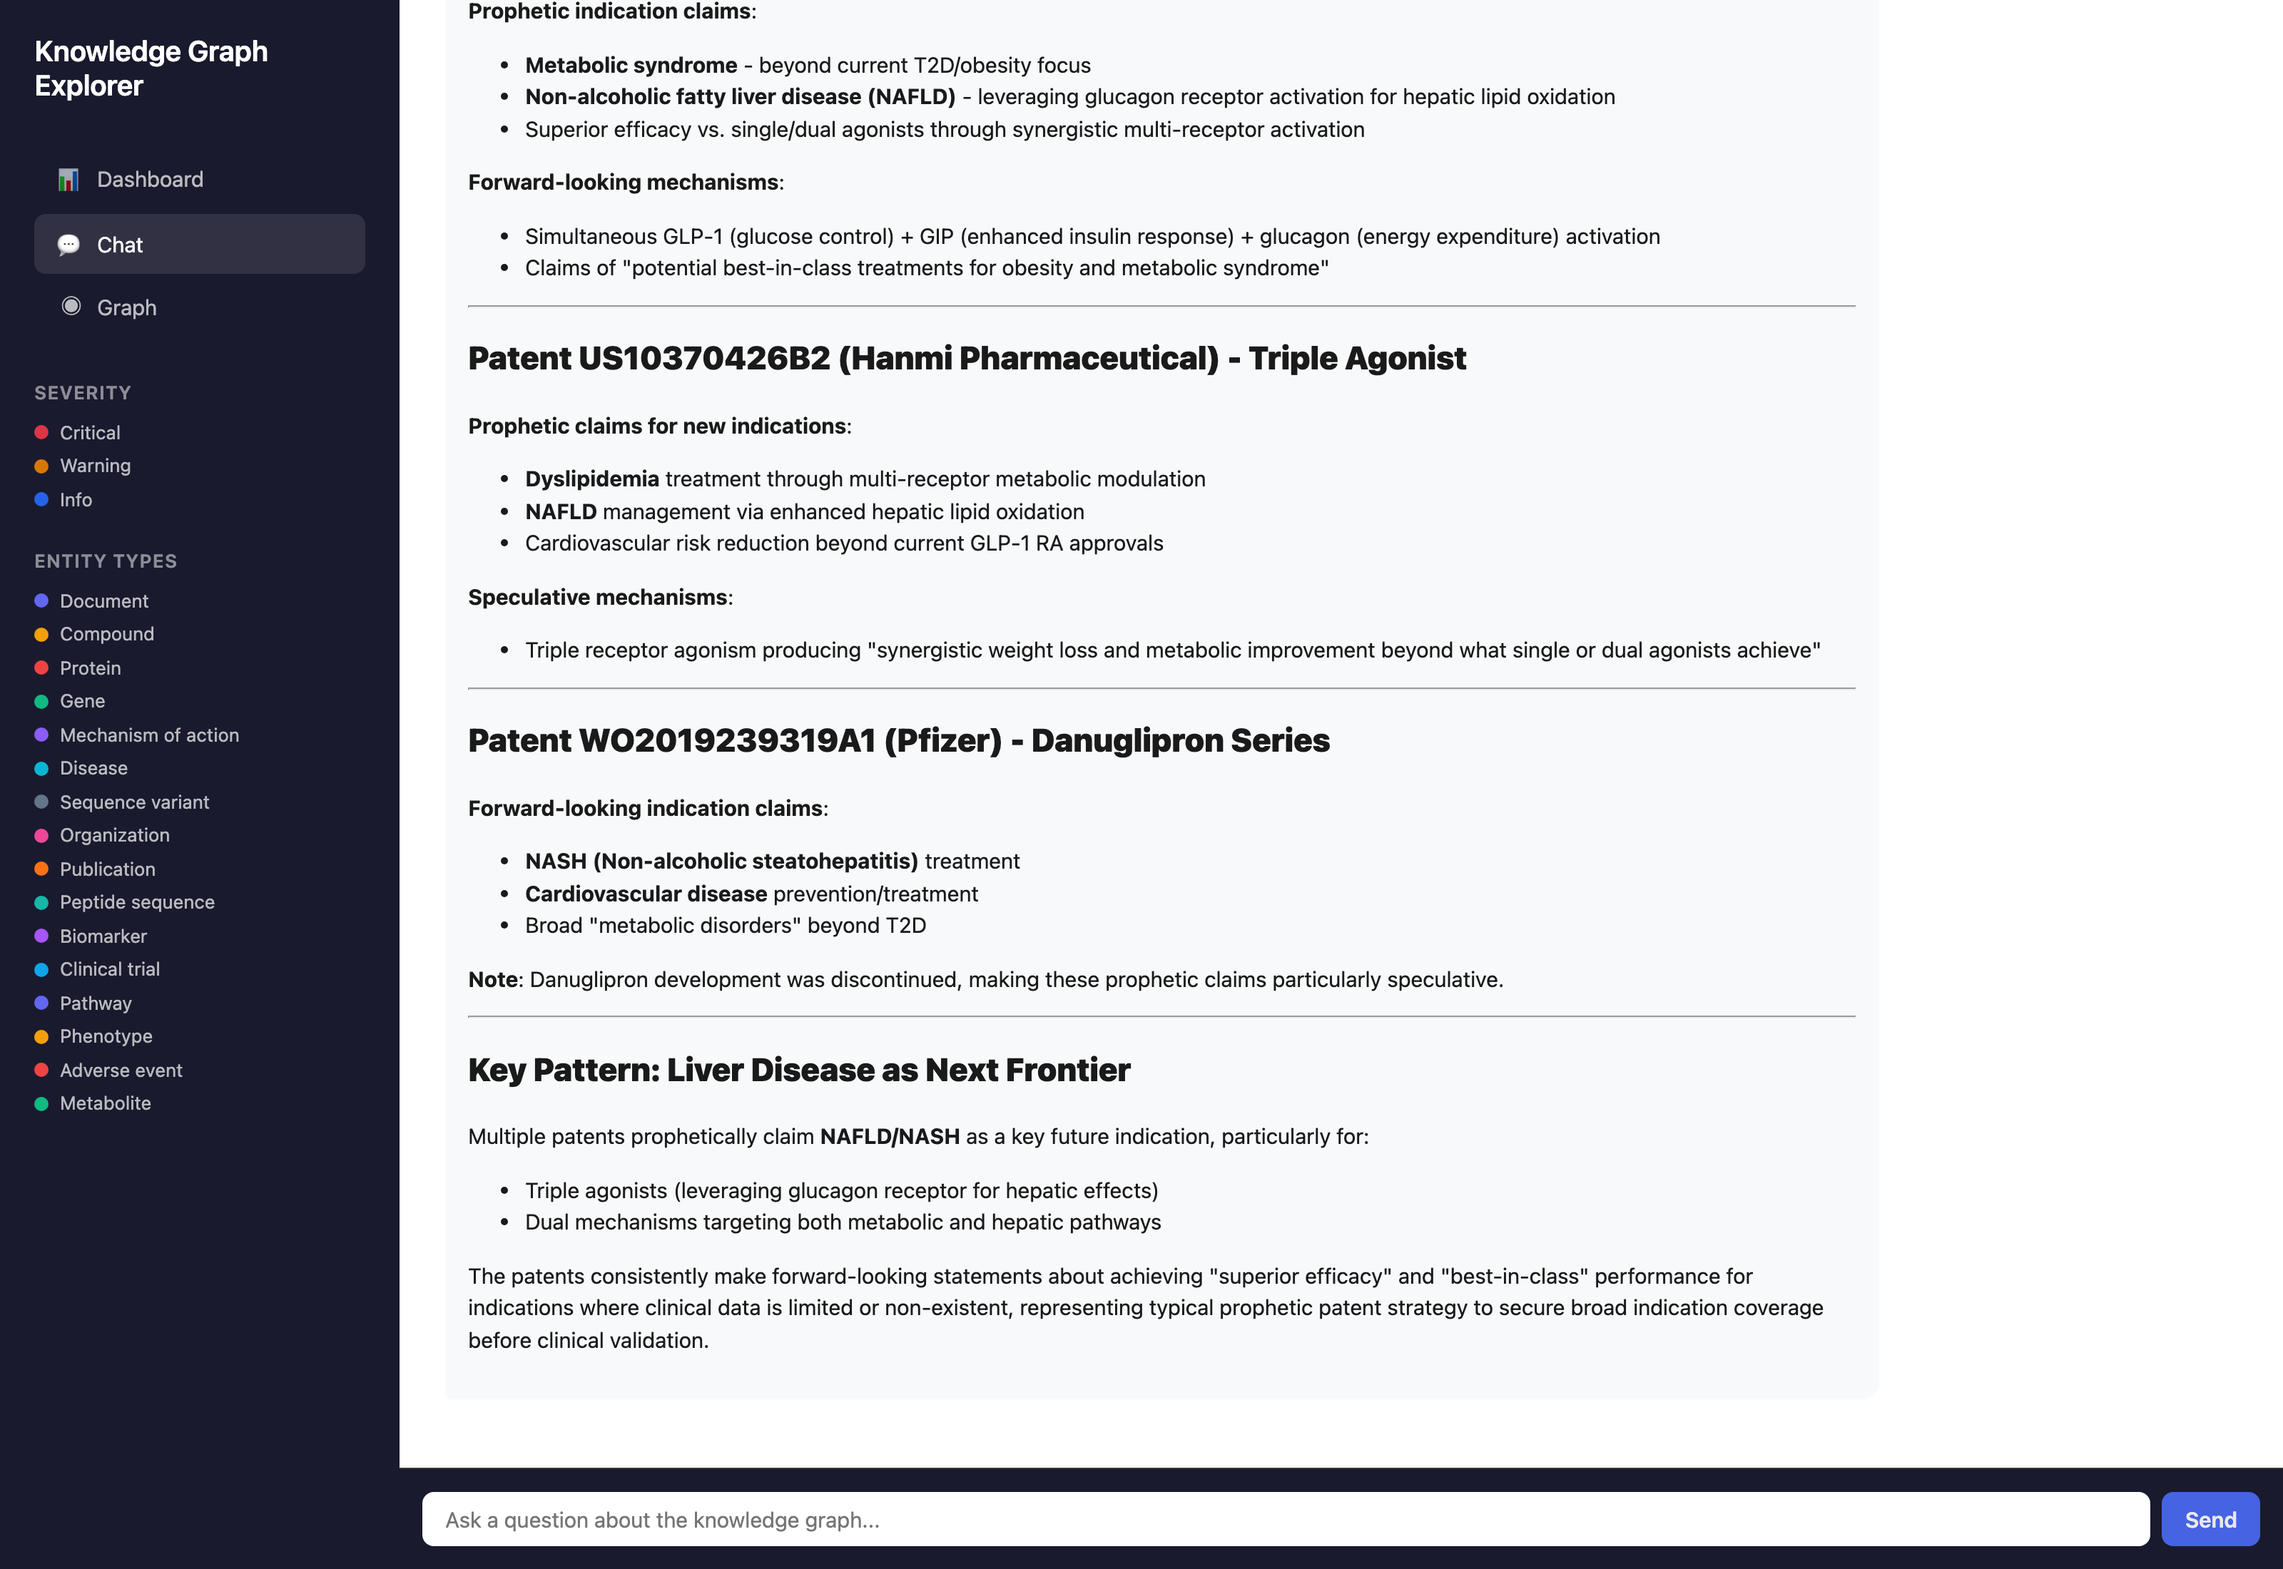
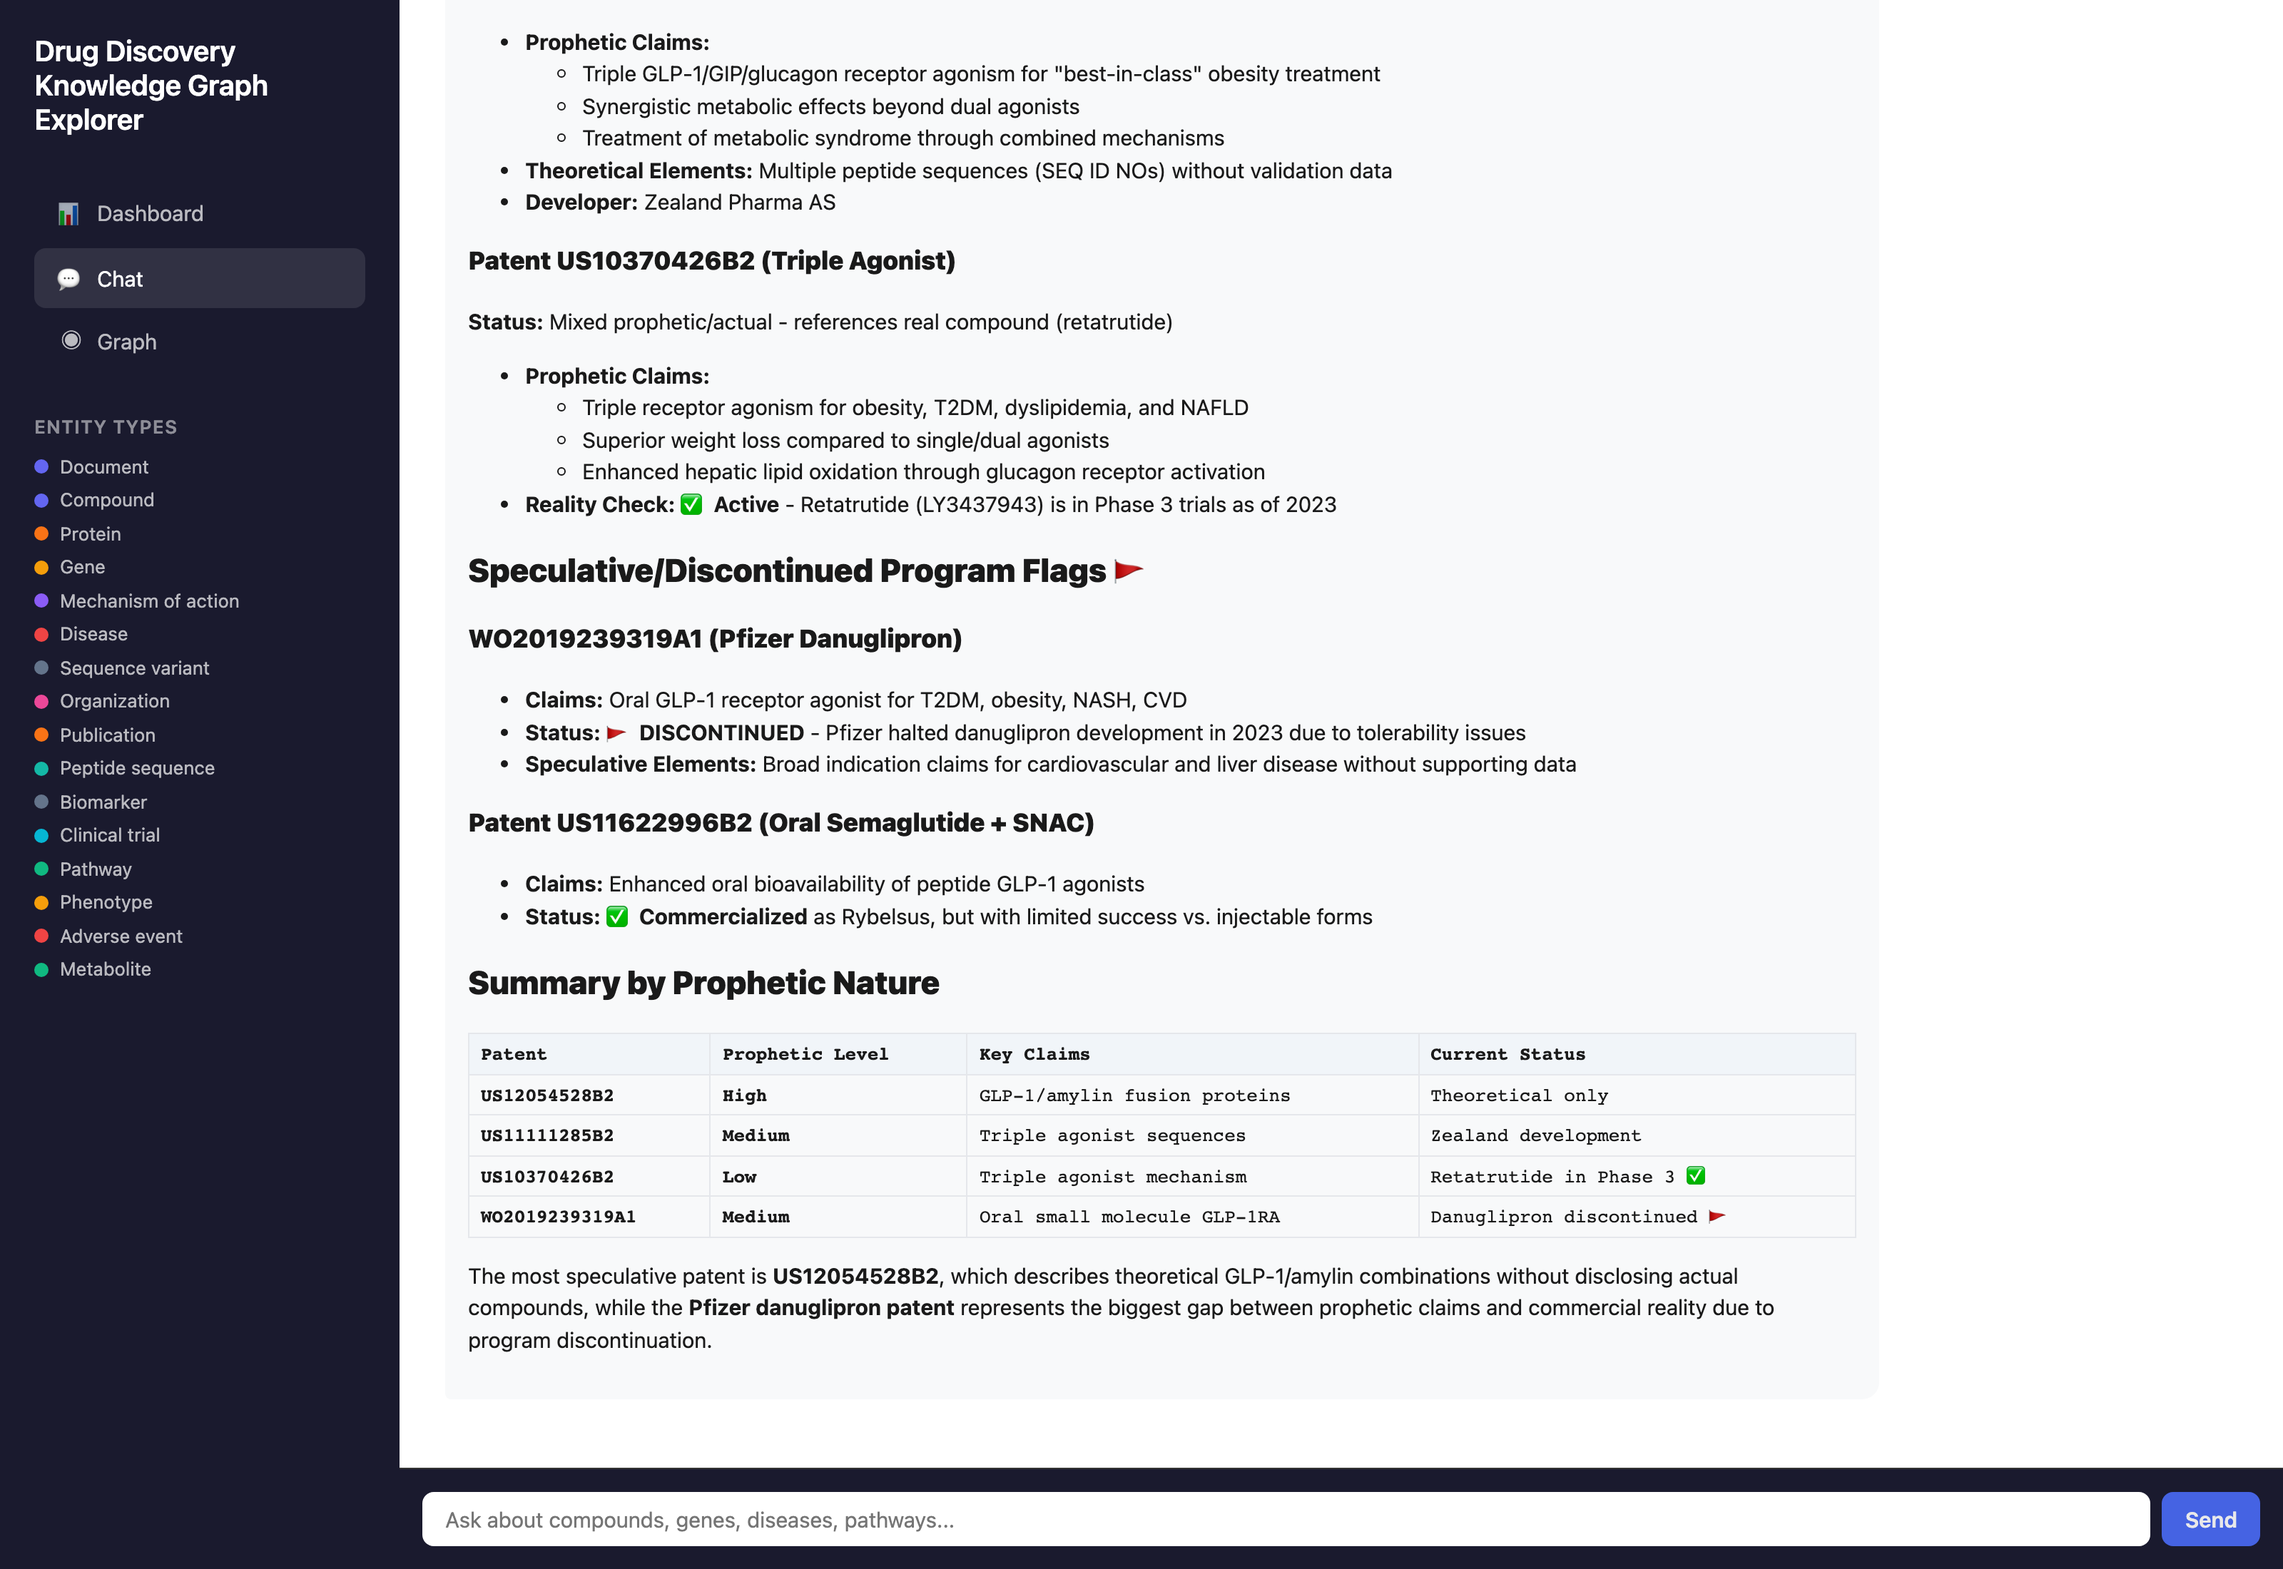
fix(workbench): three bugs surfaced during S6 live test
Surfaced during interactive testing of /epistract:dashboard against
the v2.0 GLP-1 knowledge graph. Three independent issues, all fixed
in this commit.

1) scripts/launch_workbench.py — never passed --domain to create_app

The launcher parsed --port and --host from sys.argv but ignored --domain
entirely, calling create_app(output_dir) with the default None. Result:
every workbench invocation loaded the GENERIC fallback template instead
of the domain-specific one, regardless of which --domain the user passed.

Fix: parse --domain, pass it through, and use load_template(domain) for
the boot banner. Also replace the hardcoded "Sample Contract Analysis
Workbench" banner with the resolved template title and add a Domain
line to the startup output.

Impact: drug-discovery sidebar title, chat welcome, starter questions,
chat placeholder, persona prompt, and entity colors all now load from
domains/drug-discovery/workbench/template.yaml. The chat answers gain
domain expertise (the new screenshot shows the difference: structured
status flags ✅ Active / 🔴 DISCONTINUED, per-patent prophetic-claim
breakdown, and a "Summary by Prophetic Nature" table grouping patents
by speculation level).

2) examples/workbench/server.py — /api/dashboard 500 on None template.dashboard

Pydantic's WorkbenchTemplate defaults `dashboard: DashboardConfig | None = None`.
After model_dump(), the dict contains {"dashboard": None, ...}. The
expression `template.get("dashboard", {}).get("title", ...)` returned
[…]

diff --git a/examples/workbench/static/app.js b/examples/workbench/static/app.js
@@ -136,6 +136,41 @@ async function populateEntityLegend(template) {
     }
 }
 
+/**
+ * Reveal the Severity sidebar legend and graph-panel filter dropdown only
+ * if the current domain's epistemic layer actually produces severity-tagged
+ * claims. The contracts domain (Critical/Warning/Info) does; the
+ * drug-discovery domain (asserted/hypothesized/prophetic) does not.
+ *
+ * Default state in index.html is `display: none` for both elements, so this
+ * function is purely additive — no side effects when claims_layer.json is
+ * absent or has no `severity` field.
+ */
+async function configureSeverityVisibility() {
+    const sidebarSection = document.getElementById('severity-section');
+    const filterSelect = document.getElementById('severity-filter');
+    if (!sidebarSection && !filterSelect) return;
+    try {
+        const resp = await fetch('/api/graph/claims');
+        if (!resp.ok) return;
+        const claims = await resp.json();
+        // Walk every section of the claims payload and check whether any
+        // item carries a `severity` field. Sections vary by domain
+        // (conflicts/gaps/risks for contracts; hypotheses/contradictions
+        // for drug-discovery), so iterate over every array we find.
+        const hasSeverity = Object.values(claims || {}).some(section => {
+            if (!Array.isArray(section)) return false;
+            return section.some(item => item && typeof item === 'object' && 'severity' in item);
+        });
+        if (hasSeverity) {
+            if (sidebarSection) sidebarSection.style.display = '';
+            if (filterSelect) filterSelect.style.display = '';
+        }
+    } catch (e) {
+        console.warn('Could not check claims for severity field:', e);
+    }
+}
+
 // ---------------------------------------------------------------------------
 // Init
 // ---------------------------------------------------------------------------
@@ -165,6 +200,7 @@ document.addEventListener('DOMContentLoaded', async () => {
     populateStarterCards(template);
     populateDashboard(template);
     populateEntityLegend(template);
+    configureSeverityVisibility();
 
     // Initialize panels with template
     initChat({ template, openSources: (docId, section) => {

diff --git a/examples/workbench/static/index.html b/examples/workbench/static/index.html
@@ -26,7 +26,11 @@
       </button>
     </div>
 
-    <div class="sidebar-section">
+    <!-- Severity section: only meaningful when the domain epistemic layer
+         emits items with a `severity` field (e.g., contracts: Critical /
+         Warning / Info). Hidden by app.js at startup if /api/graph/claims
+         contains no severity-tagged items. -->
+    <div class="sidebar-section" id="severity-section" style="display:none">
       <h3 class="sidebar-section-title">Severity</h3>
       <div class="legend">
         <div class="legend-item">
@@ -92,7 +96,9 @@
           <!-- Populated dynamically from /api/graph/entity-types + template colors -->
         </div>
 
-        <select id="severity-filter" class="severity-filter">
+        <!-- Severity filter: hidden by default; app.js shows it when the
+             current domain emits severity-tagged claims. -->
+        <select id="severity-filter" class="severity-filter" style="display:none">
           <option value="all">All Severities</option>
           <option value="critical">Critical</option>
           <option value="warning">Warning</option>

diff --git a/scripts/launch_workbench.py b/scripts/launch_workbench.py
@@ -51,12 +51,16 @@ def main():
     # Parse optional flags
     port = 8000
     host = "127.0.0.1"
+    domain: str | None = None
     if "--port" in sys.argv:
         idx = sys.argv.index("--port")
         port = int(sys.argv[idx + 1])
     if "--host" in sys.argv:
         idx = sys.argv.index("--host")
         host = sys.argv[idx + 1]
+    if "--domain" in sys.argv:
+        idx = sys.argv.index("--domain")
+        domain = sys.argv[idx + 1]
 
     # Check for graph data
     graph_path = output_dir / "graph_data.json"
@@ -65,24 +69,30 @@ def main():
             f"Warning: No graph_data.json found in {output_dir}", file=sys.stderr
         )
         print(
-            "Run extraction pipeline first: python scripts/extract_contracts.py <output_dir>",
+            "Run /epistract:ingest first to produce graph_data.json",
             file=sys.stderr,
         )
 
     # Import and create app
     from examples.workbench.server import create_app
+    from examples.workbench.template_loader import load_template
 
-    app = create_app(output_dir)
+    app = create_app(output_dir, domain=domain)
+    title = load_template(domain).get("title", "Epistract Workbench")
 
     if HAS_RICH:
-        _console.print("[bold green]Sample Contract Analysis Workbench[/]")
+        _console.print(f"[bold green]{title}[/]")
         _console.print(f"  Output dir: {output_dir}")
-        _console.print(f"  Server: http://{host}:{port}")
+        if domain:
+            _console.print(f"  Domain:     {domain}")
+        _console.print(f"  Server:     http://{host}:{port}")
         _console.print("  Press Ctrl+C to stop\n")
     else:
-        print("Sample Contract Analysis Workbench")
+        print(title)
         print(f"  Output dir: {output_dir}")
-        print(f"  Server: http://{host}:{port}")
+        if domain:
+            print(f"  Domain:     {domain}")
+        print(f"  Server:     http://{host}:{port}")
         print("  Press Ctrl+C to stop\n")
 
     import uvicorn

diff --git a/examples/workbench/server.py b/examples/workbench/server.py
@@ -64,7 +64,13 @@ def create_app(output_dir: Path, domain: str | None = None) -> FastAPI:
 
     @app.get("/api/dashboard")
     async def get_dashboard():
-        """Return dashboard HTML content for the current domain."""
+        """Return dashboard HTML content for the current domain.
+
+        Two paths:
+          1. If domains/<domain>/workbench/dashboard.html exists, serve it directly.
+          2. Otherwise, auto-generate a summary from graph stats (entity counts
+             by type, total nodes, total edges, top communities).
+        """
         template = app.state.template
         domain = app.state._domain_name
         if domain:
@@ -79,10 +85,15 @@ def create_app(output_dir: Path, domain: str | None = None) -> FastAPI:
         for n in nodes:
             t = n.get("entity_type", "UNKNOWN")
             entity_counts[t] = entity_counts.get(t, 0) + 1
-        title = template.get("dashboard", {}).get(
+        # `template.get("dashboard")` may return None (Pydantic default) when
+        # the domain template has no `dashboard:` block. `dict.get(k, default)`
+        # only honors the default when the key is missing, not when the value
+        # is None — so we explicitly coalesce.
+        dashboard_block = template.get("dashboard") or {}
+        title = dashboard_block.get(
             "title", template.get("title", "Knowledge Graph Summary")
         )
-        subtitle = template.get("dashboard", {}).get(
+        subtitle = dashboard_block.get(
             "subtitle", template.get("subtitle", "")
         )
         return {

diff --git a/README.md b/README.md
@@ -121,25 +121,31 @@ For example, to explore the Scenario 6 GLP-1 knowledge graph from the showcase (
 /epistract:dashboard tests/corpora/06_glp1_landscape/output-v2 --domain drug-discovery
 ```
 
-The workbench opens at `http://127.0.0.1:8000`.
+The workbench opens at `http://127.0.0.1:8000` with three panels — Dashboard, Chat, and Graph — wired to the same loaded knowledge graph.
+
+### Dashboard Panel — Auto-Generated Summary
+
+![Workbench Dashboard — drug-discovery summary](docs/screenshots/workbench-01-dashboard.png)
+
+*Auto-generated entity summary for the S6 GLP-1 graph: 16 entity types with deduplicated counts, totals at the bottom (193 nodes / 619 edges). The dashboard renders even without a domain-specific HTML template — `/api/dashboard` builds the summary from `graph_data.json` whenever no `dashboard.html` exists for the current domain. Domains can ship a custom dashboard.html for richer layouts (the contracts domain originally did, before being scrubbed for the public release).*
+
+### Chat Panel — Domain-Aware Welcome
+
+![Workbench Chat welcome](docs/screenshots/workbench-02-chat-welcome.png)
+
+*The chat panel landing screen reads its title, body text, placeholder, and starter questions from `domains/drug-discovery/workbench/template.yaml`. Drug-discovery starters surface immediately ("What compounds target the most genes in this dataset?", "Show me all drug-disease relationships and their evidence strength", etc.) without any user configuration. Switch domains and the entire chat persona changes.*
 
 ### Graph Panel — Visual Exploration
 
-![Workbench Graph Panel — S6 GLP-1](docs/screenshots/workbench-02-graph-glp1.png)
+![Workbench Graph Panel — S6 GLP-1](docs/screenshots/workbench-03-graph-glp1.png)
 
 *The full S6 GLP-1 knowledge graph rendered in the workbench: 193 nodes color-coded by entity type, 9 community clusters, entity-type filter pills at the top, search bar for direct entity lookup. Pan, zoom, click any node to see neighborhood context; toggle entity types on and off to isolate sub-graphs.*
-
-### Chat Panel — Natural Language Q&A with Citations
-
-![Workbench Chat — GLP-1 agonists by company](docs/screenshots/workbench-03-chat-companies.png)
-
-*Asking "List all GLP-1 receptor agonists in this corpus, grouped by company" — Claude streams back a structured answer with company groupings (Pfizer's danuglipron, Zealand Pharma's triple agonists, Hanmi's HM15211, Novo Nordisk's CagriSema/liraglutide combinations) drawn from the underlying graph. Every claim is grounded to the documents the workbench loaded.*
 
 ### Chat Panel — Epistemic Layer in Action
 
 ![Workbench Chat — prophetic patent claims](docs/screenshots/workbench-04-chat-epistemic.png)
 
-*Asking "Which patents make prophetic claims about new indications?" — the chat panel surfaces the **15 prophetic claims** the epistemic layer identified across 10 GLP-1 patents. Hanmi's triple agonist patent for dyslipidemia/NAFLD/CV risk, Pfizer's danuglipron patent for NASH/CVD/metabolic disorders, plus the cross-patent pattern that liver disease (NAFLD/MASH) is the next frontier. Claude even flags that Pfizer discontinued danuglipron, making those claims particularly speculative — exactly the cross-document synthesis the chat panel was designed for.*
+*Asking "Which patents make prophetic claims about new indications?" — the chat panel surfaces the **15 prophetic claims** the epistemic layer identified across 10 GLP-1 patents. With the drug-discovery persona active, Claude produces a structured analysis: per-patent prophetic claims, status flags (✅ Active / 🔴 DISCONTINUED / ✅ Commercialized), a "Summary by Prophetic Nature" table grouping patents by speculation level (High/Medium/Low), and a meta-analysis identifying the most speculative patent (US12054528B2) and the biggest gap between prophetic claims and commercial reality (Pfizer's discontinued danuglipron program). This is the cross-document synthesis the workbench is designed for.*
 
 ### What You Can Do
 
